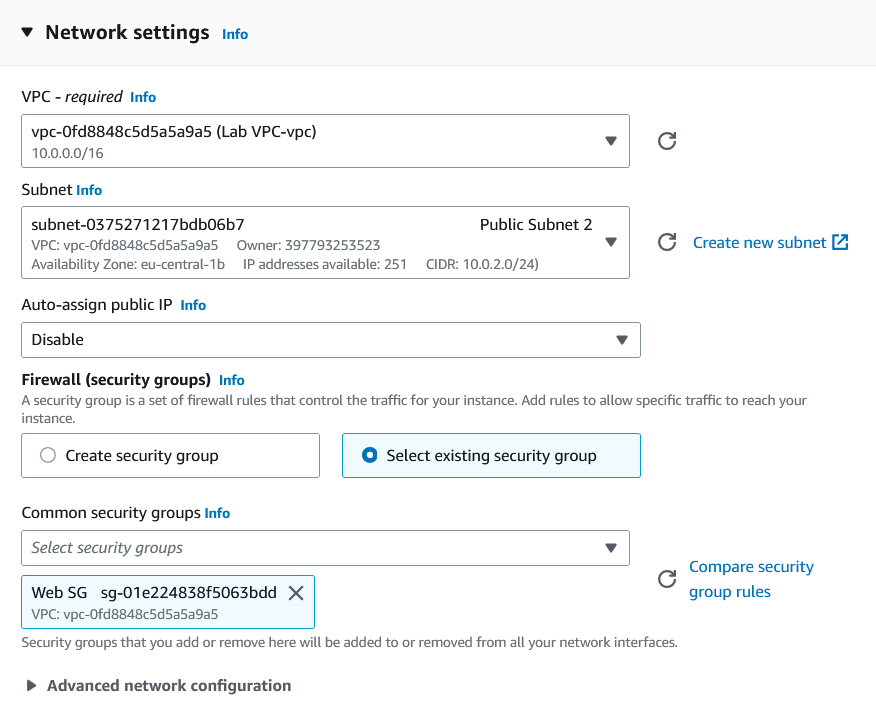
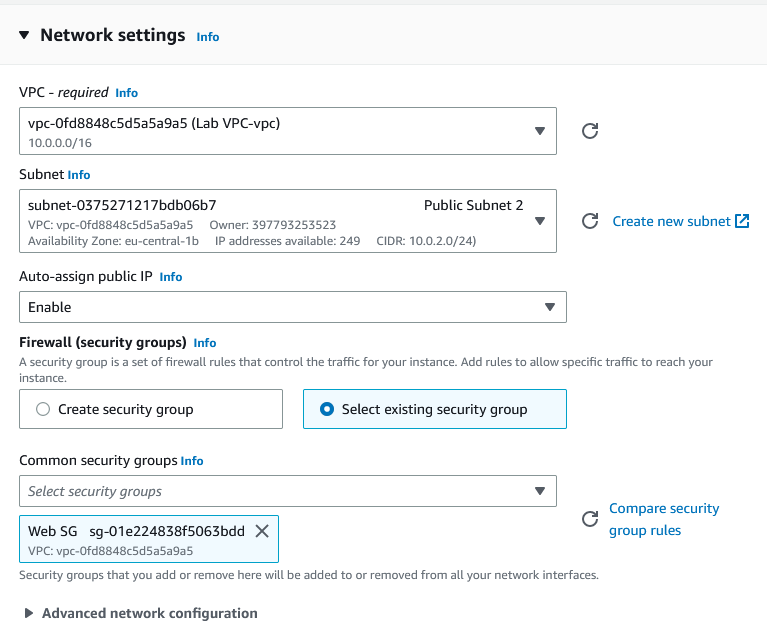
Update

diff --git a/02_Cloud_1/AWS-10 Virtual Private Cloud (VPC).md b/02_Cloud_1/AWS-10 Virtual Private Cloud (VPC).md
@@ -3,9 +3,6 @@ Een VPC opzetten
 
 ## Key-terms
 
-### CIDR block
-
-
 ### VPC
 Het is een Virtual Private Cloud in je eigen logisch geïsoleerde omgeving binned de AWS. Je gebruikt AWS service zoals EC2 instantie, in de subnets van je VPC. Het is zelfde als je eigen netwerk in het datacenter zou kunnnen gebruiken maar dan heb je de voordelen van het schaalbare infrastructuur van AWS. 
 1) VPC Configureren
@@ -15,6 +12,13 @@ Het is een Virtual Private Cloud in je eigen logisch geïsoleerde omgeving binne
 5) Network gateways configureren
 6) Beveiligingsinstellingen configureren
 Je kan de instantie in je VPC verbinden met het internet of met je eigen datacenter.
+
+#### Elastic IP addres  
+Een 'Static IP' is een onafhankelijke lokale IP adres die je kan toewijzen bij:
+1) EC2-Instance
+2) NAT-gateway
+3) ELB
+Hierdoor wordt het niet meer gewijzigd als je de EC2-Instance stopt of opnieuw start. Hiermee zorg je ervoor dat je resources altijd bereikbaar is via hetzelfde IP-adres, zelfs wanneer je resources verplaatst of hersteld.
 
 ## Opdracht
 
@@ -125,15 +129,18 @@ Terug naar 'VPC dashboard > Launch EC2 Instances'
 ![resultaat](/00_includes/AWS-10-resultaat19.png "resultaat")
 
 ### ...with the following requirements:
-   - AMI: Amazon Linux 2  
-   - Type: t3.micro  
-   - Key pair: no key pair  
+   - **Key:** Name  
+   - **Value:** Web server
+![resultaat](/00_includes/AWS-10-resultaat23.png "resultaat")
+   - **AMI:** Amazon Linux 2  
+   - **Type:** t3.micro  
+   - **Key pair:** no key pair  
 
 #### Network settings
    - **VPC:** Lab VPC
    - **Subnet:** Public subnet 2  
    - **Auto-assign Public IP:** Enable  
-   - Security Group: Web SG  
+   - **Security Group:** Web SG  
 ![resultaat](/00_includes/AWS-10-resultaat20.png "resultaat")
    - User data:  
 ```
@@ -149,24 +156,24 @@ chkconfig httpd on
 service httpd start
 ```
    - Tag:
-   - Key: Name  
-   - Value: Web server
 
 Dan nog de instantie een 'Elastic IP address' geven.
 ![resultaat](/00_includes/AWS-10-resultaat21.png "resultaat")
 
+
 ### Connect to your server using the public IPv4 DNS name.  
 
-Mijn IPv4 DNS:
+Nadat 'Elastic IP Address' is aangeven op je 'Instance ID' dan zie je 'Public DNS' bij 'Elastic IP Address'.
+![resultaat](/00_includes/AWS-10-resultaat25.png "resultaat")
+*De reden waarom bij 'instance' het werkt als je kopieert naar je clipbaord, maar niet als je 'open adress' klit is omdat het een https url is.*
+
+Mijn IPv4 DNS van:
 ```
-ec2-3-70-113-217.eu-central-1.compute.amazonaws.com
+ec2-3-75-146-133.eu-central-1.compute.amazonaws.com
 ```
 
-Ik krijg steeds "The connection has timed out" error...
-
-
-
-
+Dit is de resultaat ervan:
+![resultaat](/00_includes/AWS-10-resultaat24.png "resultaat")
 
 ### Gebruikte bronnen
 https://docs.aws.amazon.com/AWSEC2/latest/UserGuide/elastic-ip-addresses-eip.html#using-instance-addressing-eips-allocating
@@ -174,8 +181,9 @@ https://docs.aws.amazon.com/AWSEC2/latest/UserGuide/using-vpc.html
 https://docs.aws.amazon.com/AWSEC2/latest/UserGuide/ec2-instance-connect-set-up.html
 https://docs.aws.amazon.com/vpc/latest/userguide/vpc-cidr-blocks.html
 
+
 ### Ervaren problemen
-The connection has timed out krijg ik steeds bij de laaste opdracht dus ik heb opdracht 1 t/m 4 opnieuw gemaakt.
+Krijg steeds 'The connection has timed out' en ik merkte later dat ik het 'Elastic IP address' moets geven bij 'Instance' verder werkte het toen prima.
 
 ### Resultaat
-Het kunnen opzetten van een VPC
+Het kunnen opzetten van een VPC met public en private subnets en het aanwijzen op de juiste route tables. Nieuwe subnets maken en ze toevoegen bij de juist route tables. Een security group maken voor http verbinding. EC2 instance maken met aangepaste requirements.

diff --git a/02_Cloud_1/AWS-08 Security Groups.md b/02_Cloud_1/AWS-08 Security Groups.md
@@ -1,13 +1,13 @@
 # Security Groups
-Beveiliging voor het internet verkeer.
+Beveiliging voor het verkeer op het internet en subnets.
 
 ## Key-terms / Opdracht  
 
 #### Security Groups in AWS  
-Het is een firewall die het internet verkeer toelaat naar of vanaf je VPC. Je kan kiezen welke ports en protocols je toelaat for inkomende verkeer en uitkomende verkeer.
+Het is een firewall die het internet verkeer toelaat naar of vanaf je VPC. Je kan kiezen welke ports en protocols je toelaat for inkomende verkeer en uitkomende verkeer. **voor Internet**
 
 #### Network Access Control Lists in AWS  / ACL
-Het geeft de mogelijkeheid om inkomende verkeer en uitkomende verkeer te weigeren of toelaten op subnet niveau. Je kan de standard network ACL gebruiken voor je VPC of je kan eigen network ACL maken voor jouw VPC. Hierbij kan je vergelijkebaar en eigen regels instellen.
+Het geeft de mogelijkeheid om inkomende verkeer en uitkomende verkeer te weigeren of toelaten op **subnet niveau**. Je kan de standard network ACL gebruiken voor je VPC of je kan eigen network ACL maken voor jouw VPC. Hierbij kan je vergelijkebaar en eigen regels instellen. **voor Subnet**
 
 ### Gebruikte bronnen
 https://docs.aws.amazon.com/vpc/latest/userguide/security-groups.html
@@ -16,7 +16,6 @@ https://docs.aws.amazon.com/vpc/latest/userguide/vpc-network-acls.html
 
 ### Ervaren problemen
 Geen
-
 
 ### Resultaat
 Weet wat een Security Groups en Access Control Lists
